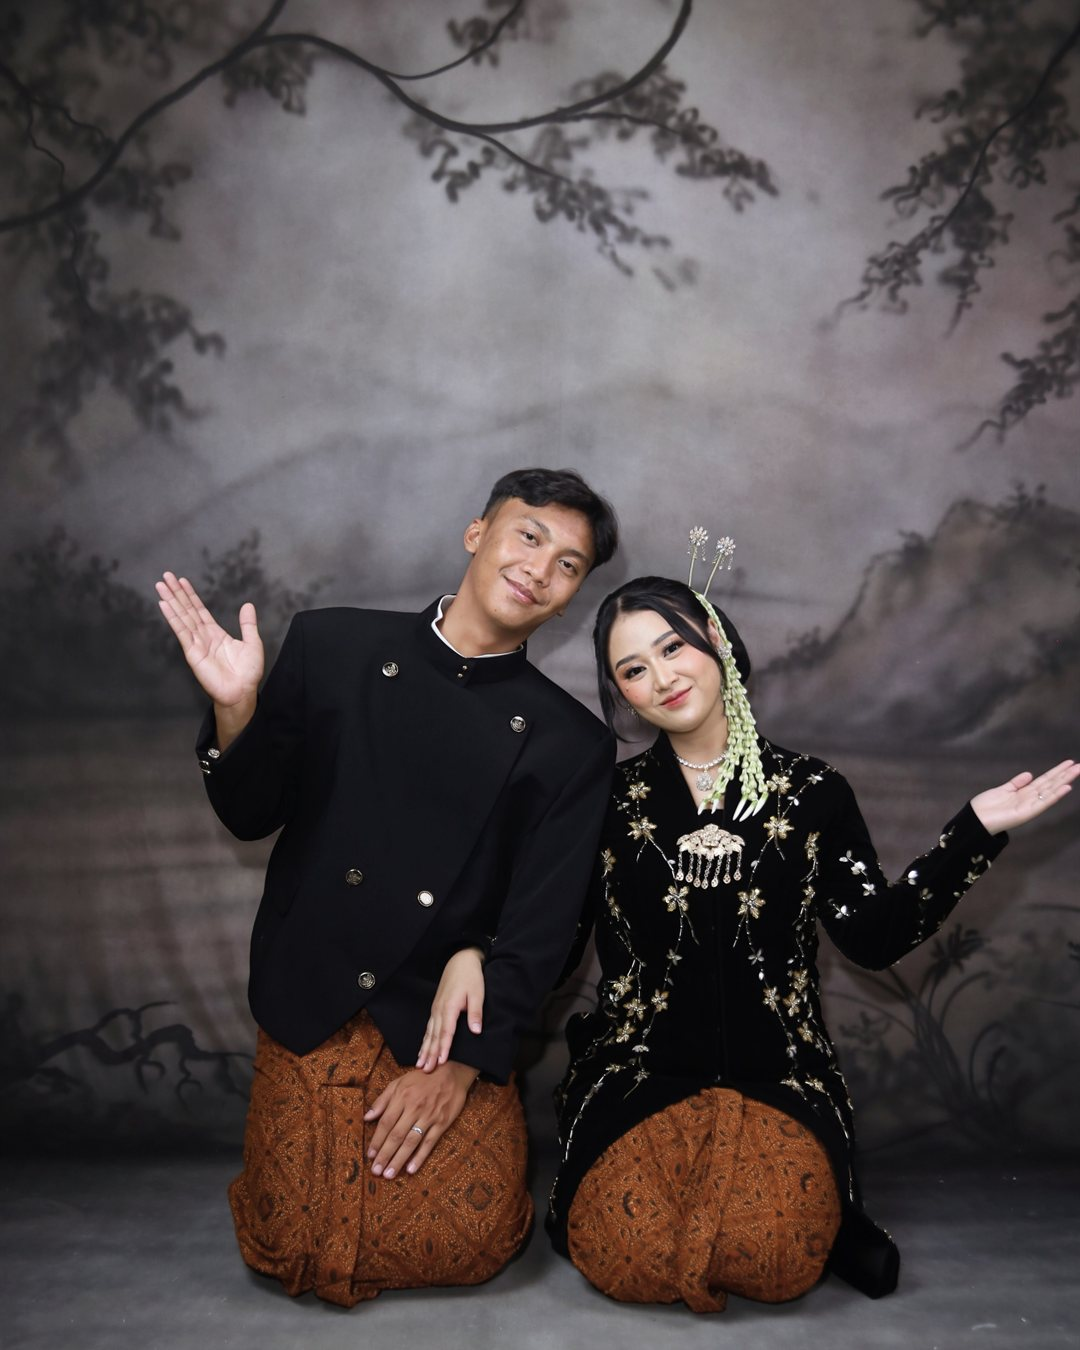
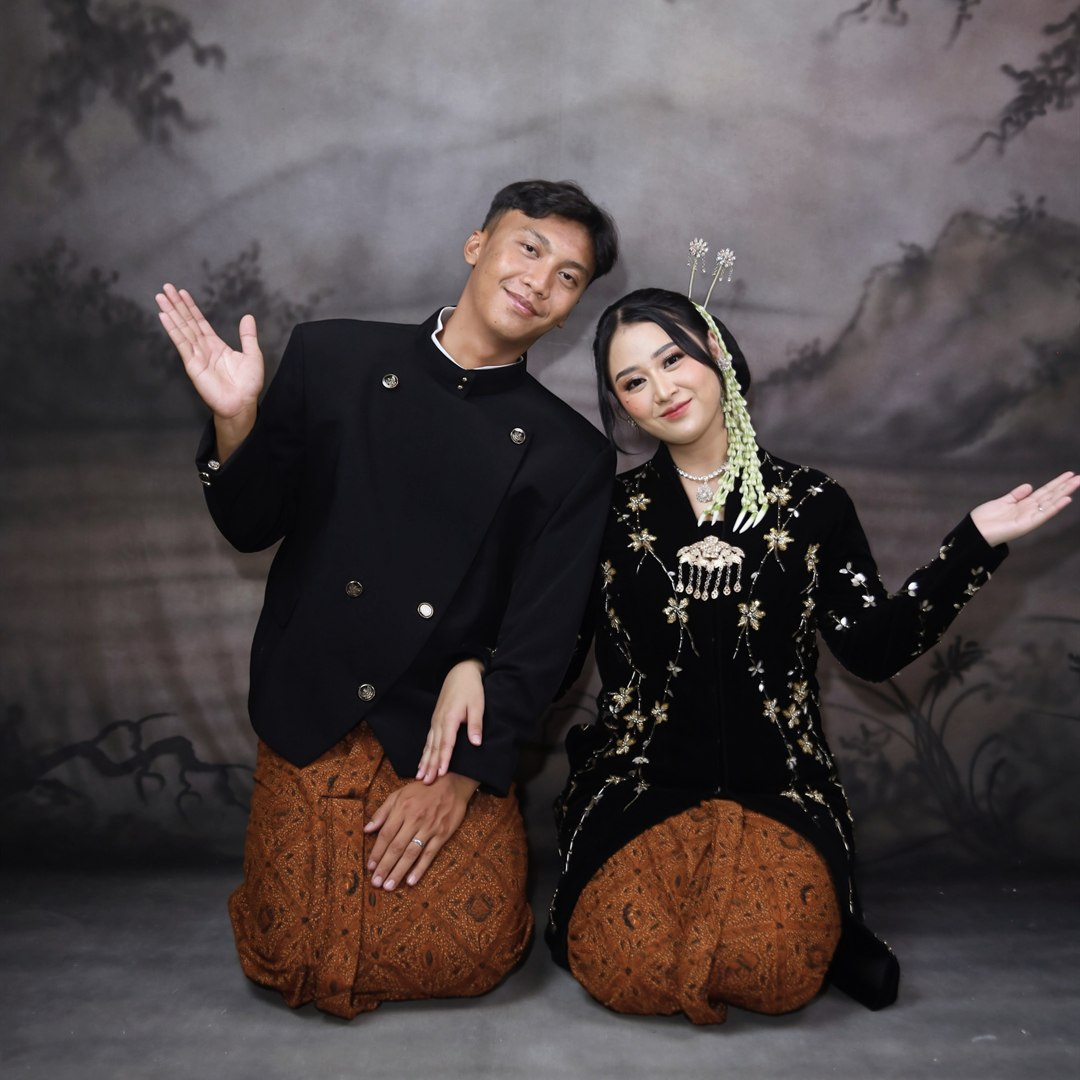
fix: optimalkan foto web.jpg agar tampil besar dan fokus penuh di kartu whatsapp

diff --git a/src/app/layout.tsx b/src/app/layout.tsx
@@ -26,7 +26,7 @@ const siteUrl =
   process.env.NEXT_PUBLIC_SITE_URL ||
   (process.env.VERCEL_PROJECT_PRODUCTION_URL ? `https://${process.env.VERCEL_PROJECT_PRODUCTION_URL}` : null) ||
   (process.env.VERCEL_URL ? `https://${process.env.VERCEL_URL}` : null) ||
-  "https://wedding-anggi-anam.vercel.app";
+  "https://wedding-angi-anam.vercel.app";
 
 export const metadata: Metadata = {
   metadataBase: new URL(siteUrl),
@@ -53,7 +53,7 @@ export const metadata: Metadata = {
       {
         url: "/og-image.jpg",
         width: 1080,
-        height: 1350,
+        height: 1080,
         alt: "The Wedding of Anam & Angi",
         type: "image/jpeg",
       },
@@ -93,7 +93,7 @@ export default function RootLayout({
         <meta property="og:image:secure_url" content={`${siteUrl}/og-image.jpg`} />
         <meta property="og:image:type" content="image/jpeg" />
         <meta property="og:image:width" content="1080" />
-        <meta property="og:image:height" content="1350" />
+        <meta property="og:image:height" content="1080" />
         <meta property="og:url" content={siteUrl} />
         <meta property="og:type" content="website" />
       </head>
